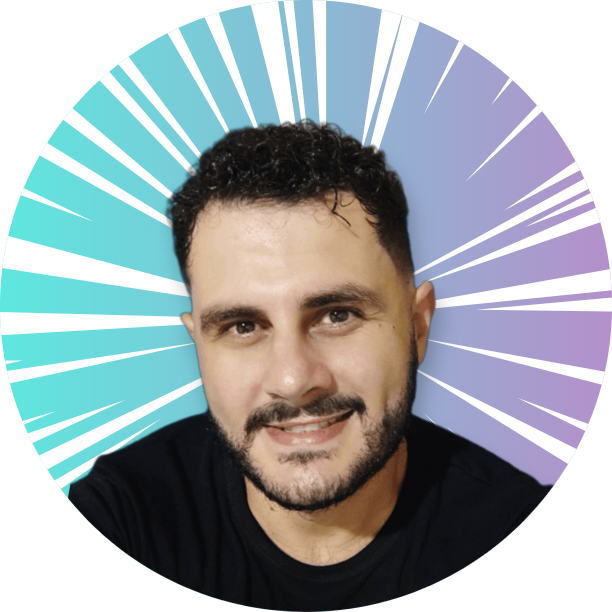
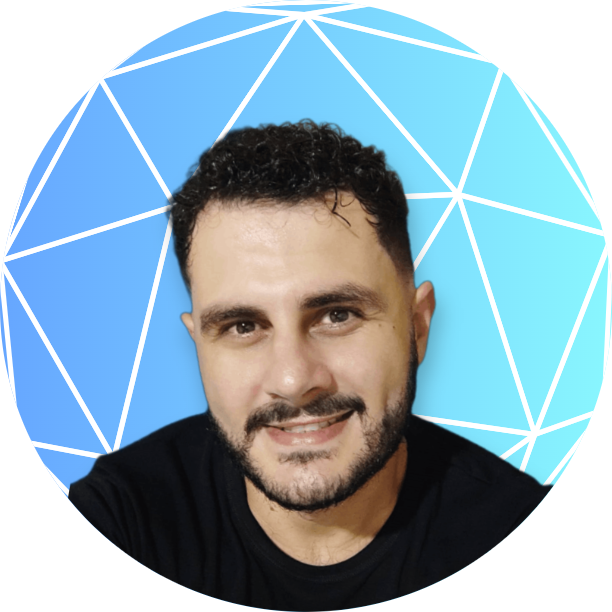
att1

diff --git a/about.html b/about.html
@@ -17,10 +17,13 @@
     <main class="apresentacao">
         <section class="apresentacao__conteudo">
             <h1 class="apresentacao__conteudo__titulo">Sobre mim</h1>
-            <p class="apresentacao__conteudo__texto">Lorem ipsum dolor sit amet, consectetur adipiscing elit. Nullam ut consectetur ante. Curabitur gravida pulvinar felis at ornare. Nulla efficitur lacinia mauris eu imperdiet. Nam a pretium nulla, at sagittis neque. Sed ac mauris vehicula, blandit tellus id, convallis arcu. Proin sagittis sem vitae risus scelerisque pulvinar. Curabitur eu consectetur tortor, nec imperdiet orci. Maecenas ac mollis nibh. Vivamus sed convallis urna, in condimentum dolor. Curabitur pretium efficitur aliquam. Vestibulum efficitur dui at mi sagittis, nec commodo sem laoreet. Aliquam ut rhoncus neque, aliquet iaculis nibh. Fusce vel faucibus neque. Nam pharetra ante sit amet mi accumsan, sed commodo enim dapibus.</p>
-            <p class="apresentacao__conteudo__texto">Lorem ipsum dolor sit amet, consectetur adipiscing elit. Nullam ut consectetur ante. Curabitur gravida pulvinar felis at ornare. Nulla efficitur lacinia mauris eu imperdiet. Nam a pretium nulla, at sagittis neque. Sed ac mauris vehicula, blandit tellus id, convallis arcu. Proin sagittis sem vitae risus scelerisque pulvinar. Curabitur eu consectetur tortor, nec imperdiet orci. Maecenas ac mollis nibh. Vivamus sed convallis urna, in condimentum dolor. Curabitur pretium efficitur aliquam. Vestibulum efficitur dui at mi sagittis, nec commodo sem laoreet. Aliquam ut rhoncus neque, aliquet iaculis nibh. Fusce vel faucibus neque. Nam pharetra ante sit amet mi accumsan, sed commodo enim dapibus.</p>
+            <p class="apresentacao__conteudo__texto">Olá, eu sou o Eduardo, um Web Developer com experiência em HTML e CSS. Durante minha carreira, tenho trabalhado duro para desenvolver minhas habilidades e conhecimentos em desenvolvimento Web, com o objetivo de fornecer soluções eficazes e personalizadas para cada cliente.</p>
+            <p class="apresentacao__conteudo__texto">Desde que comecei, descobri que minha paixão é ajudar as pessoas a alcançarem seus objetivos e se desenvolverem pessoal e profissionalmente. É por isso que me dedico a fornecer a meus clientes o mais alto nível de serviço e atenção aos detalhes, garantindo que cada projeto seja executado com eficiência e eficácia.</p>
+            <p class="apresentacao__conteudo__texto">Eu acredito que a comunicação é fundamental em tudo o que fazemos. É por isso que sempre trabalho em estreita colaboração com meus clientes, entendendo suas necessidades e expectativas para que possamos trabalhar juntos para alcançar os resultados desejados. Para mim, o sucesso é uma jornada e não um destino, e estou constantemente buscando maneiras de crescer e aprender em minha profissão.</p>
+            <p class="apresentacao__conteudo__texto">Fora do trabalho, adoro passar meu tempo com minha família e amigos, explorando novos lugares e experimentando novas coisas. Também sou um ávido leitor e estou sempre em busca de novos livros e ideias para me inspirar e me motivar.</p>
+            <p class="apresentacao__conteudo__texto">Estou animado para compartilhar minha experiência e conhecimento com você e ajudá-lo a alcançar seus objetivos em Projeto Web. Se você está procurando um Web Developer dedicado, estou aqui para ajudá-lo.</p>
         </section>
-        <img class="apresentacao__imagem" src="./assets/profile-pic2.png" alt="Foto de Eduardo Rodovalho">
+        <img class="apresentacao__imagem" src="./assets/profile-pic.png" alt="Foto de Eduardo Rodovalho">
     </main>
     <footer class="rodape">
         <p>Desenvolvido por Eduardo Rodovalho.</p>

diff --git a/styles/style.css b/styles/style.css
@@ -93,7 +93,10 @@ body{
 
 .apresentacao__imagem{
     width: 50%;
-    border-radius: 50%;
+}
+
+.apresentacao__imagem:hover{
+    content: url(../assets/profile-pic2.png);
 }
 
 .rodape{
